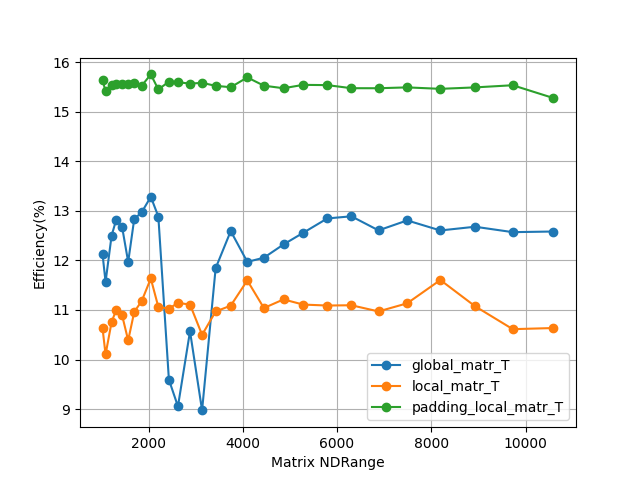
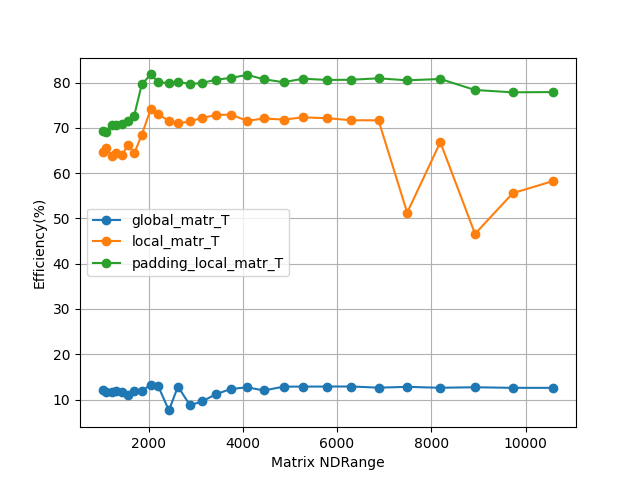
lab2 work version

diff --git a/Lab2/lab2.py b/Lab2/lab2.py
@@ -154,8 +154,8 @@ def lab2(M, N, check_results, print_results):
         
         data.update({"GPU_TIME (ms)": gpu_time * 1e-6})
 
-        mem_bw = (2 * device_matr_T.nbytes / pow(1024, 3)) / (gpu_time * 1e-9) # GB / s 
-        efficiency = (mem_bw * 1e-3 / 80 * 100)
+        mem_bw = (2 * device_matr_T.nbytes / pow(1024, 3)) / (gpu_time * 1e-6) # GB / s 
+        efficiency = (mem_bw  / 80 * 100)
         data.update({'Mem bandwidths (GB/s)': mem_bw, 'Efficiency(%)': efficiency})
 
         results.update({i: data})
@@ -242,8 +242,8 @@ def lab2_parse_argv(argv):
 
 
 def main():   
-    # lab2_parse_argv(sys.argv)
-    graphics()
+    lab2_parse_argv(sys.argv)
+    # graphics()
 
 if __name__ == '__main__':
     main()

diff --git a/Lab2/README.md b/Lab2/README.md
@@ -1,0 +1,3 @@
+![plot](./bench/test_0.png)
+![plot](./bench/test_1.png)
+![plot](./bench/test_2.png)
